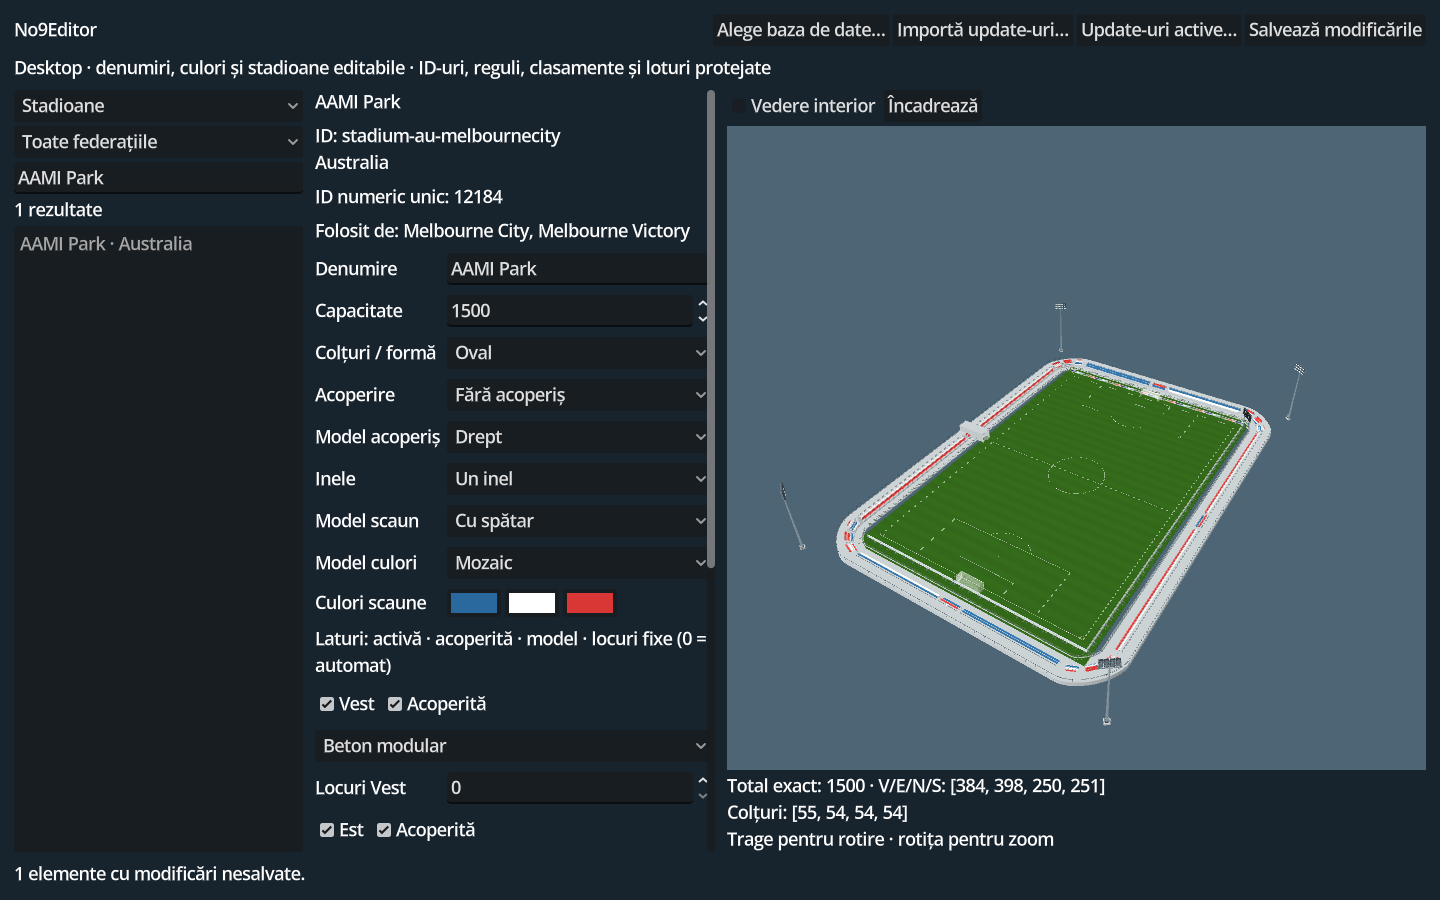
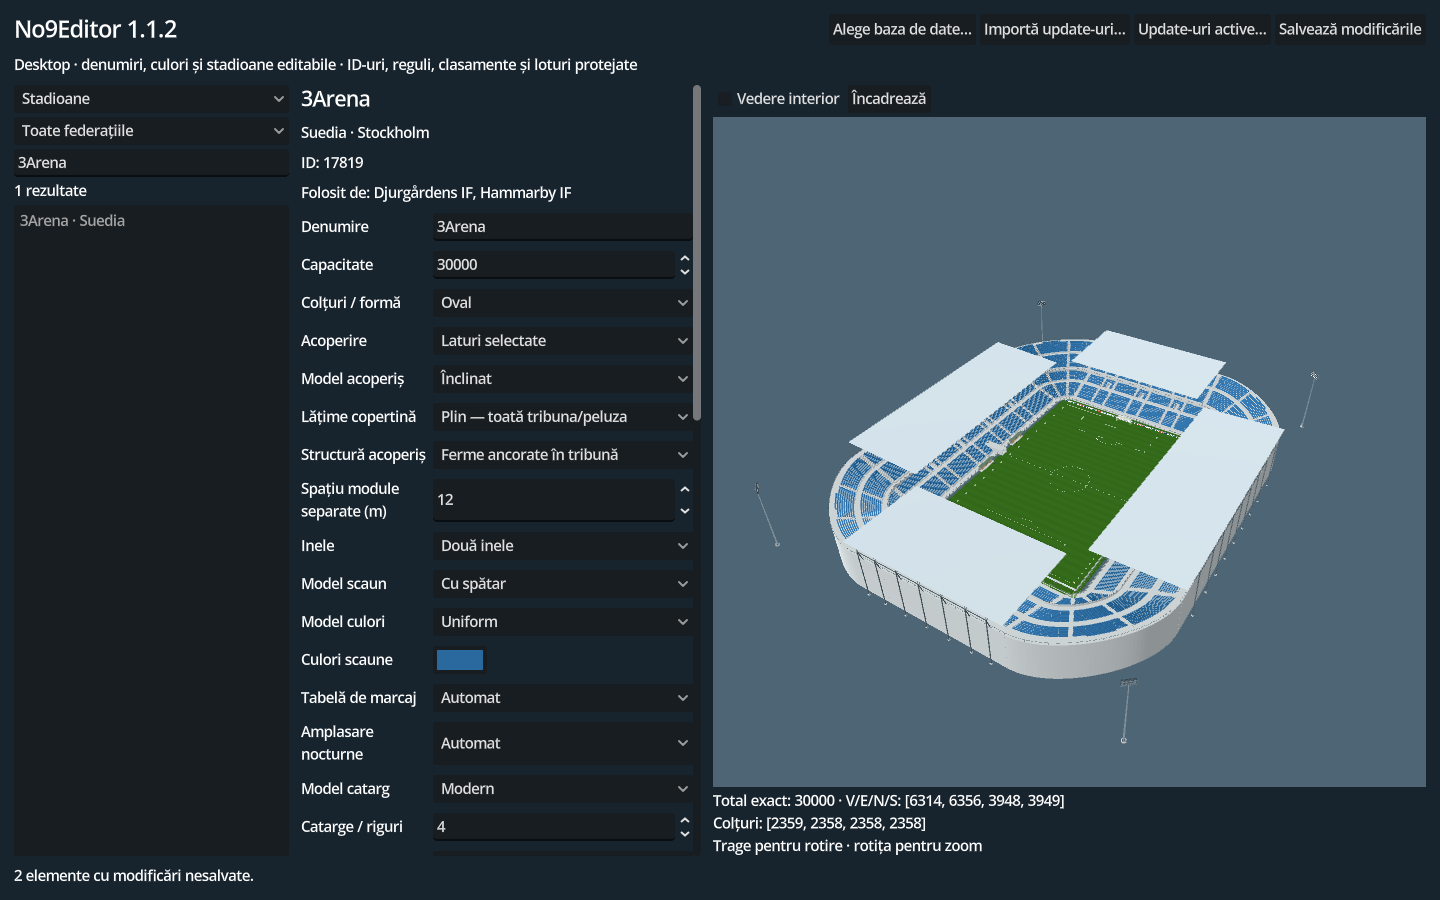
Refresh No9Editor and stadium authoring presentation

Changed region(s): [[0.0, 0.0, 1.0, 0.9644], [0.5625, 0.3733, 0.9062, 0.7778], [0.0, 0.9644, 0.2188, 0.9956]]

diff --git a/README.md b/README.md
@@ -145,40 +145,46 @@ Native 3D demonstrations include **5+1 small-sided play** and **11-versus-11 fri
 <img src="media/snapshots/Screenshot%202026-10-13%20190115.png" width="30%" alt="Fourth official with substitution board">
 </div>
 
-## Development update — 22 October 2026
+## Development update — 23 October 2026
 
-The stadium authoring library now brings **89 available assets and two assembly examples onto one Godot gallery page**: modular stands and end stands, connected corners, tier and roof options, floodlights, scoreboards, advertising, standing terraces, steel bleachers and competition presentation pieces. These are development assets; the existing match environments remain available.
+The stadium authoring library brings **91 assets and two assembly examples onto one Godot gallery page**: stands and end stands, connected corners, tier and roof options, floodlights, scoreboards, advertising, standing terraces, steel bleachers and award presentation pieces. The existing rural, urban, plain and mountain match environments remain available.
 
-Floodlights face the pitch and sit close to the stands. Fully roofed examples use lighting beneath the canopy. Smaller individual speakers, roof-mounted displays and three-sided advertising layouts follow the stadium structure. Seat colors can use **three editable colors** with uniform, mosaic, vertical-stripe, horizontal-stripe, checkerboard, diagonal or sector patterns.
+Stadium options include full or central-half canopies, five roof shapes, three support structures, and a full single stand, two independent stands, a centered half-width stand or no stand on each side. Each of the four corners can be enabled separately when both adjoining sides are full-width. There is no roof above an absent corner. Seat palettes use **one, two or three colors** with uniform, individual-seat mosaic, vertical sectors, horizontal sectors, equally spaced bands, ring colors or bottom-to-top fading. The mosaic keeps discrete seat colors at every distance, with height-dependent mixtures based on the supplied photographs; distant chairs use four triangles each rather than color-averaged strips. Floodlights face the pitch. Covered examples can mount lights beneath the roof; scoreboards include central cable suspension with no full roof, roof-edge mounting and closed niches. Advertising can use one or two rows on the pitch perimeter, on rectangular spectator fencing, or both.
 
 <div align="center">
-<img src="media/development-2026-10-22/stadium-gallery.png" width="95%" alt="All 89 available stadium assets together on one Godot development page">
-<img src="media/development-2026-10-22/roof-lighting.png" width="47%" alt="Pitch-facing floodlights and a small individual speaker under the canopy">
-<img src="media/development-2026-10-22/roof-scoreboard.png" width="47%" alt="A supported scoreboard in a fully roofed stadium development example">
+<img src="media/development-2026-10-23/stadium-gallery.png" width="95%" alt="All 91 stadium authoring assets together on one Godot page">
 </div>
+
+<p align="center"><img src="media/development-2026-10-23/mosaic-three-colors.png" width="95%" alt="Discrete three-color stadium seat mosaic with continuous height transitions through the curved corner"></p>
 
 ### No9Editor — a separate desktop application
 
-**No9Editor** is a standalone Windows editor with a searchable database browser and a live 3D stadium preview. It does not require an installed Godot editor. Names, club short names, colors, stadium capacity and appearance can be edited; identifiers, rules, ratings and squads remain protected.
+**No9Editor 1.1.3** is a standalone Windows editor with database search, readable regulations and a live 3D stadium preview. It does not require an installed Godot editor. Names, club short names, colors, stadium capacity and appearance are editable. Rules, ratings, memberships and identifiers are protected.
 
-The preview reuses the basic stadium's actual playing surface, markings, corner flags and both goals with nets. It adds the selected stands and end stands around that pitch. Stadium appearance settings are currently an authoring preview and database configuration; they do not automatically replace every existing match scene.
+Selecting a league shows its name and the **clubs registered in the catalog's current season**. Regulations are presented as paragraphs rather than code. The international competition browser separates **17 club competitions and seven national-team competitions**. The game's Champions League, Europa League and Conference League each use groups of eight, with seven matches per club: one match against each opponent, without a group-stage return leg.
 
-Changes are saved as **independent update packs**, separate from the original database. A club update from one author and a stadium update from another can be enabled together. Packs can be imported, enabled, disabled and reordered. Different fields combine; conflicting edits to the same field use the last active pack and are reported. Shared stadiums use a canonical identity with compatible older references; uncertain same-name venues are kept separate for review.
+The stadium preview reuses the basic stadium's actual playing surface, markings, corner flags and both goals with nets. It adds configurable stands around the pitch and provides more touchline space for the dugouts and coaches. Changing a venue no longer leaves another stadium on screen after an invalid selection. Incompatible edits restore the last valid configuration and show their reason above the preview. These settings remain stadium authoring and database configuration; they do not automatically replace every existing 3D match scene.
 
-<div align="center">
-<img src="media/development-2026-10-22/no9editor.png" width="95%" alt="No9Editor live stadium customization draft, illustrating editable capacity and mosaic seat colors; not a reconstruction of the named real stadium">
-</div>
-
-### Current match captures
-
-These portrait captures come from the existing **11-versus-11 3D demonstration**, tested silently in the background at **720 × 1280** and **1080 × 1920** with the mobile rendering profile enabled on a Windows laptop. They are desktop development evidence, not Android or iPhone performance certification.
+Changes are saved as **independent update packs**, separate from the original database. Club and stadium changes from different authors can be combined, enabled, disabled and reordered. Conflicting changes to the same field use the last active pack and are reported. The database now uses numeric entity IDs throughout its records and references, with **23,821 globally reserved numbers**. Confirmed stadiums with the same name, city and country share one identity; training grounds are excluded from the stadium editor.
 
 <div align="center">
-<img src="media/development-2026-10-22/match-720p.png" width="32%" alt="Current 720 by 1280 portrait 3D match demonstration">
-<img src="media/development-2026-10-22/match-1080p.png" width="32%" alt="Current 1080 by 1920 portrait 3D match demonstration">
+<img src="media/development-2026-10-23/no9editor.png" width="95%" alt="No9Editor stadium customization draft: a development configuration, not a reconstruction of the named real stadium">
+<img src="media/development-2026-10-22/league-current-season.png" width="95%" alt="League name and the clubs included in the selected current season">
+<img src="media/development-2026-10-22/rules-readable.png" width="95%" alt="League regulations presented as readable paragraphs">
+<img src="media/development-2026-10-22/international-competitions.png" width="95%" alt="International club competition with seven group games and integer point totals">
 </div>
 
-The desktop editor renders its 3D preview on demand, keeps repeated seat geometry batched, and recolors existing instances without rebuilding the stadium. Match visibility queries reuse results within a rendered frame while preserving the existing animation and screen-edge behavior. Further device-specific performance work remains necessary.
+### Match presentation and animation checks
+
+The fourth official has newly authored board-carrying and board-raising poses, with bent elbows and hands gripping the lower corners. Match corrections cover close-range tackles, goalkeeper recovery after a dive, substitute bib removal, a continuous second-half ball placement and gait transitions between the authorized Solv3 clips.
+
+<div align="center">
+<img src="media/development-2026-10-22/fourth-official.png" width="32%" alt="Fourth official holding the substitution board above his hands">
+<img src="media/development-2026-10-22/match-720p.png" width="32%" alt="720 by 1280 portrait 3D match development capture">
+<img src="media/development-2026-10-22/match-1080p.png" width="32%" alt="1080 by 1920 portrait 3D match development capture">
+</div>
+
+The editor renders its 3D preview on demand and keeps repeated seat geometry batched. Colors and installations update without rebuilding unrelated seating. Silent background verification covers the desktop interface, the exported application, numeric references and the actual seven-round group schedules. The portrait match captures were made on Windows at **720 × 1280** and **1080 × 1920**; they are desktop development evidence, not Android or iPhone performance certification.
 
 ## Official game snapshots
 
